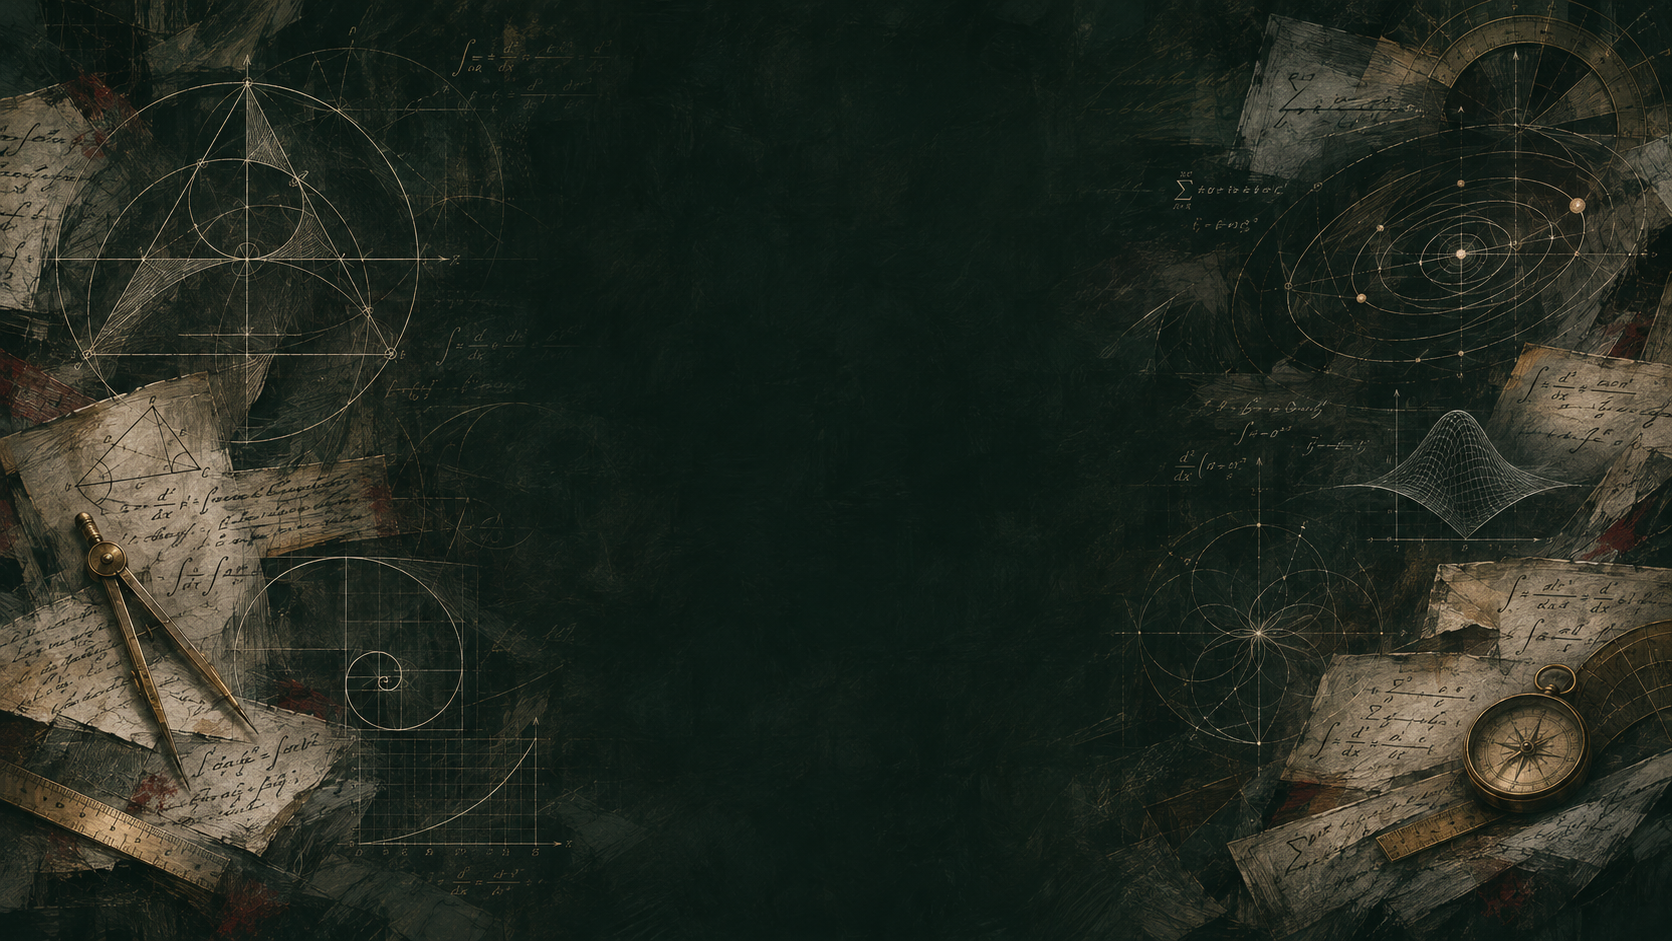
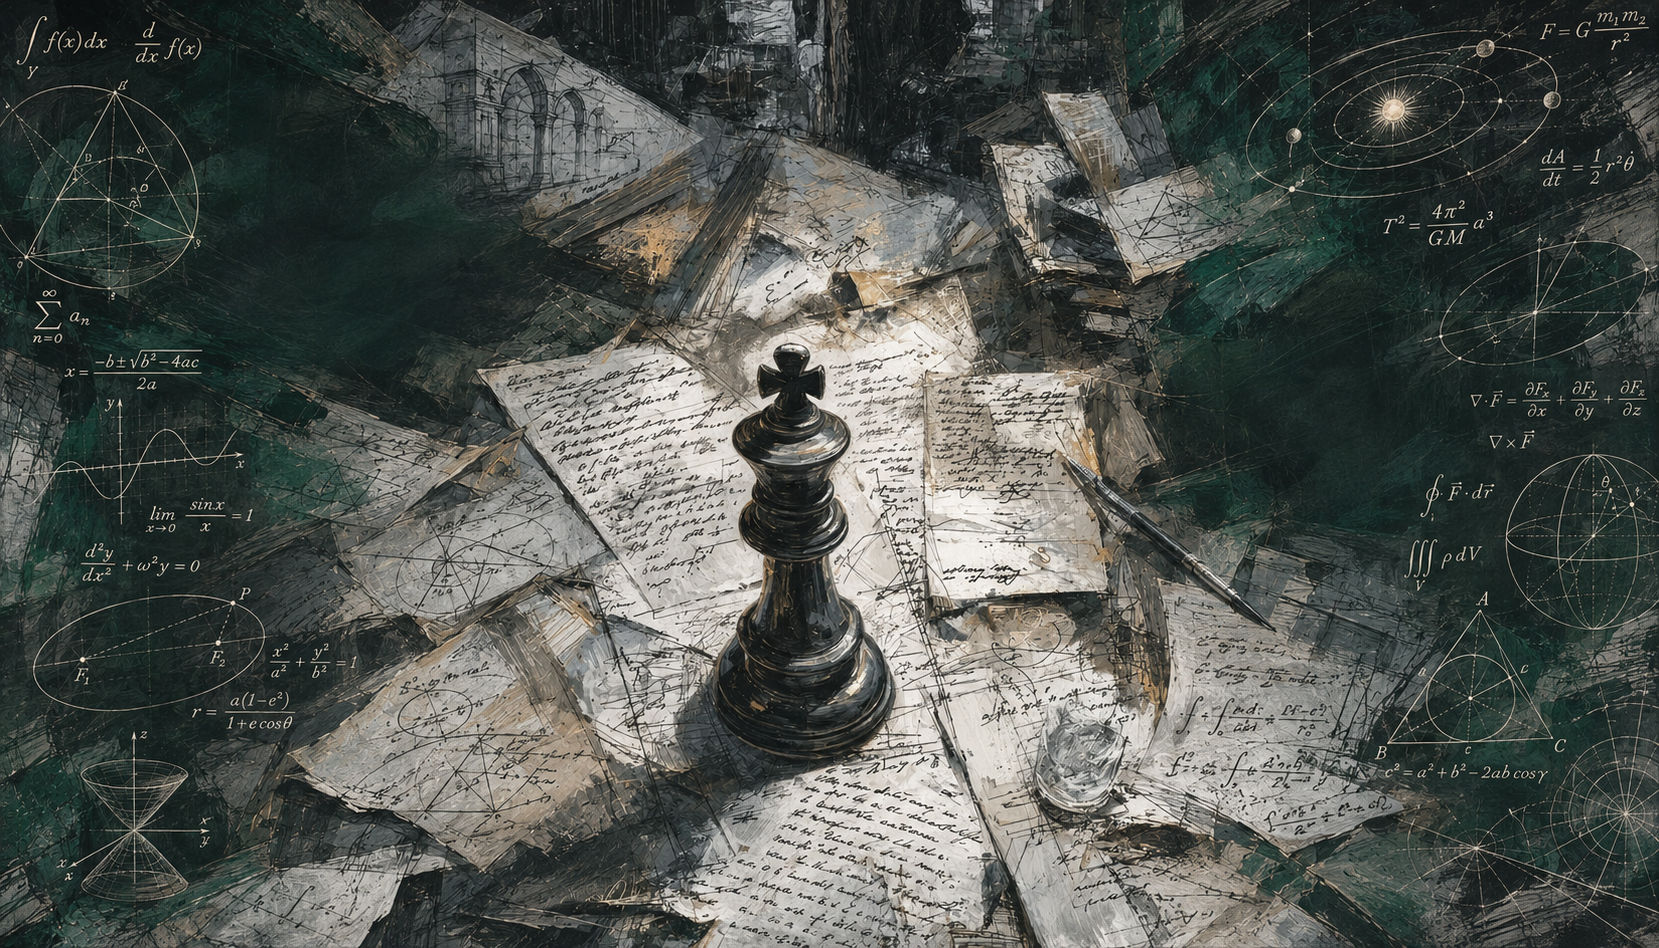
style(frontend): unificar fundo matematico do bureau

diff --git a/frontend/src/landing-bureau.css b/frontend/src/landing-bureau.css
@@ -25,7 +25,6 @@
     radial-gradient(ellipse at 50% 0%, rgba(35, 68, 61, 0.28), transparent 68%),
     linear-gradient(90deg, rgba(4, 13, 11, 0.54), rgba(9, 22, 19, 0.2) 54%, rgba(4, 13, 11, 0.5)),
     linear-gradient(180deg, rgba(4, 13, 11, 0.12), rgba(4, 13, 11, 0.66)),
-    url('/bg/bureau-mathematical-sidework.png') center top / cover fixed no-repeat,
     var(--bureau-950);
   font-family: 'Newsreader', Georgia, serif;
   scroll-behavior: smooth;
@@ -39,11 +38,9 @@
   left: 0;
   width: 100%;
   height: calc(100svh - 4.6rem);
-  background: url('/bg/bureau-chess-archive.jpeg') center 42% / auto 128vh no-repeat;
-  opacity: 0.82;
+  background: url('/bg/bureau-mathematical-sidework.png') center / cover no-repeat;
+  opacity: 0.9;
   pointer-events: none;
-  -webkit-mask-image: linear-gradient(90deg, transparent 20%, #000 34%, #000 66%, transparent 80%);
-  mask-image: linear-gradient(90deg, transparent 20%, #000 34%, #000 66%, transparent 80%);
 }
 
 .bureau > * {
@@ -984,11 +981,9 @@
 
 @media (max-width: 620px) {
   .bureau::before {
-    background-position: center 24%;
-    background-size: auto 118vh;
-    opacity: 0.72;
-    -webkit-mask-image: linear-gradient(90deg, transparent, #000 12%, #000 88%, transparent);
-    mask-image: linear-gradient(90deg, transparent, #000 12%, #000 88%, transparent);
+    background-position: center top;
+    background-size: cover;
+    opacity: 0.78;
   }
 
   .bureau-header__inner {
